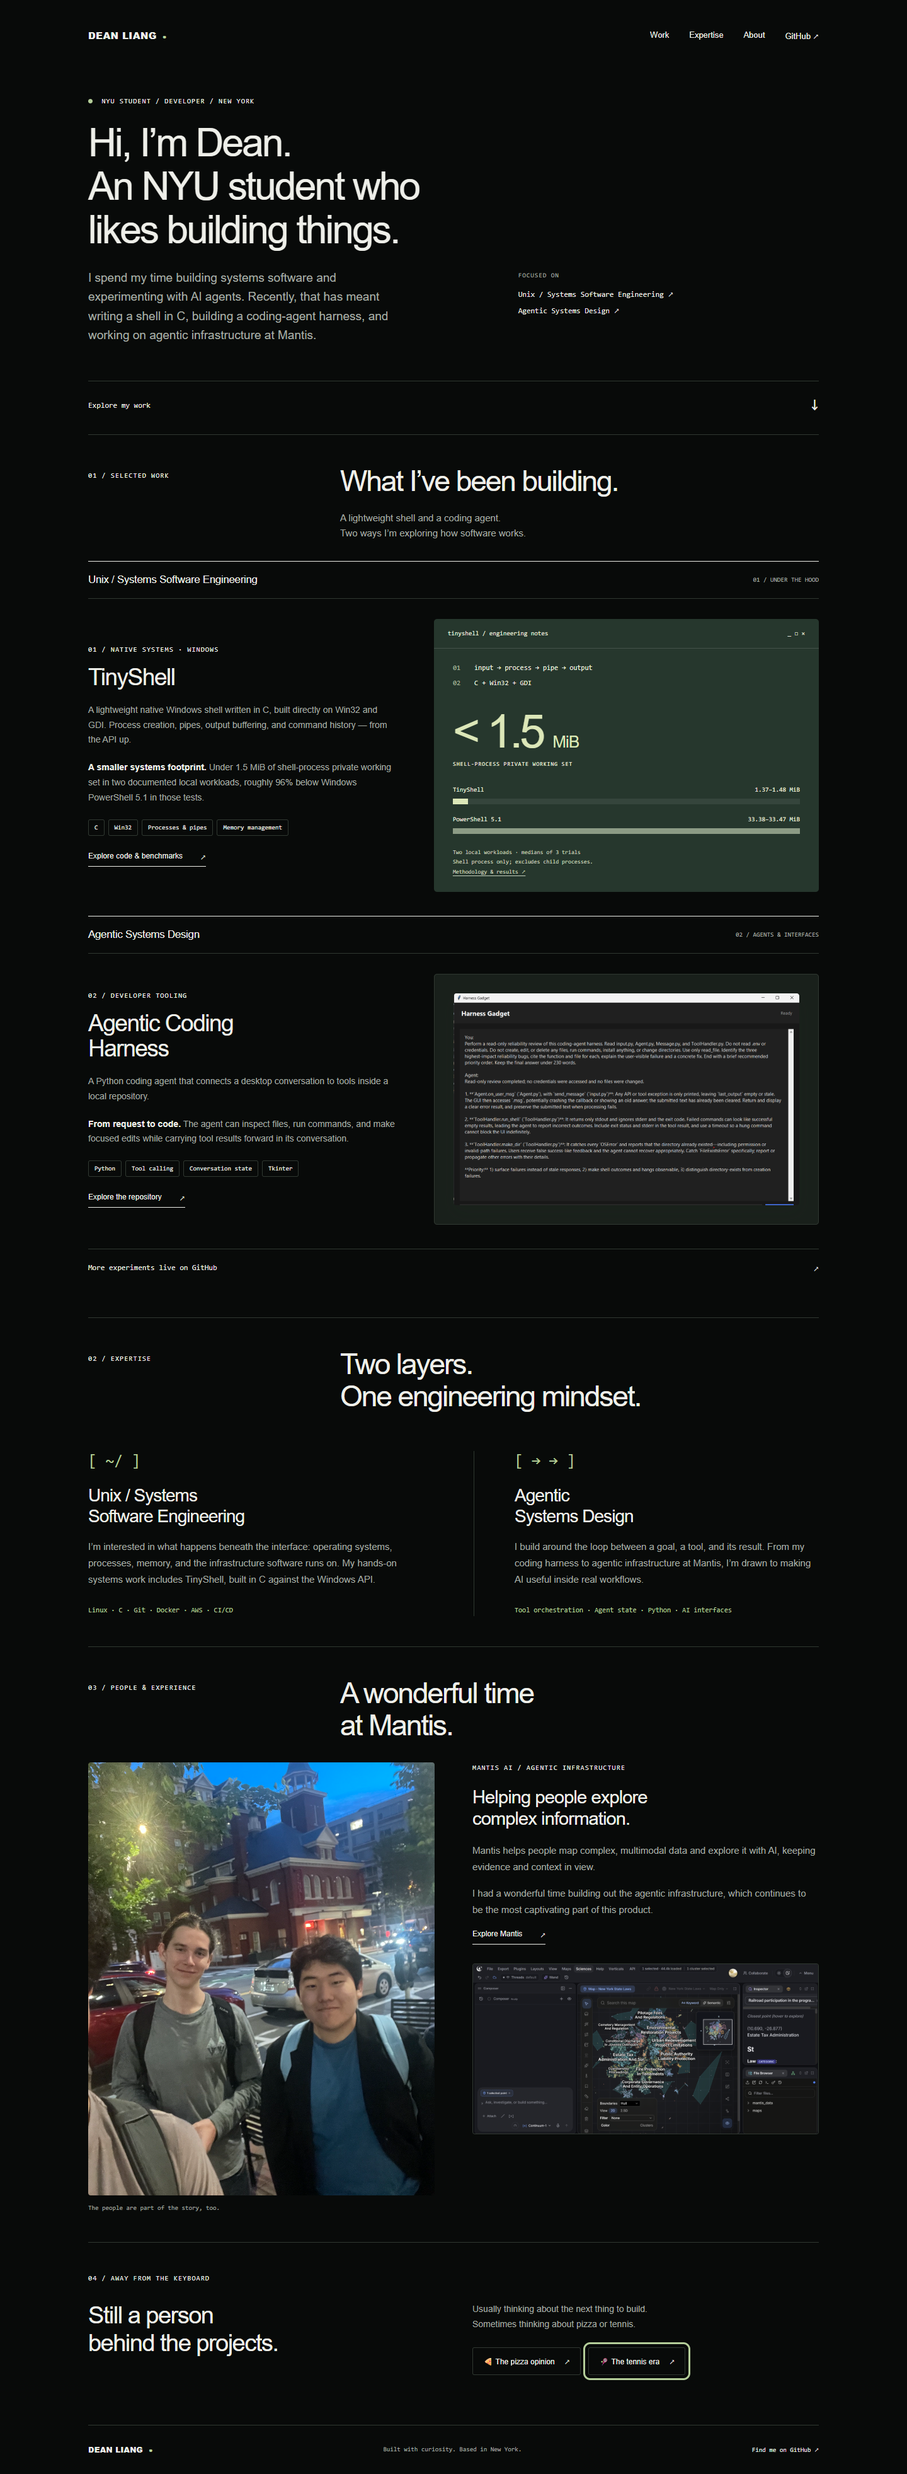
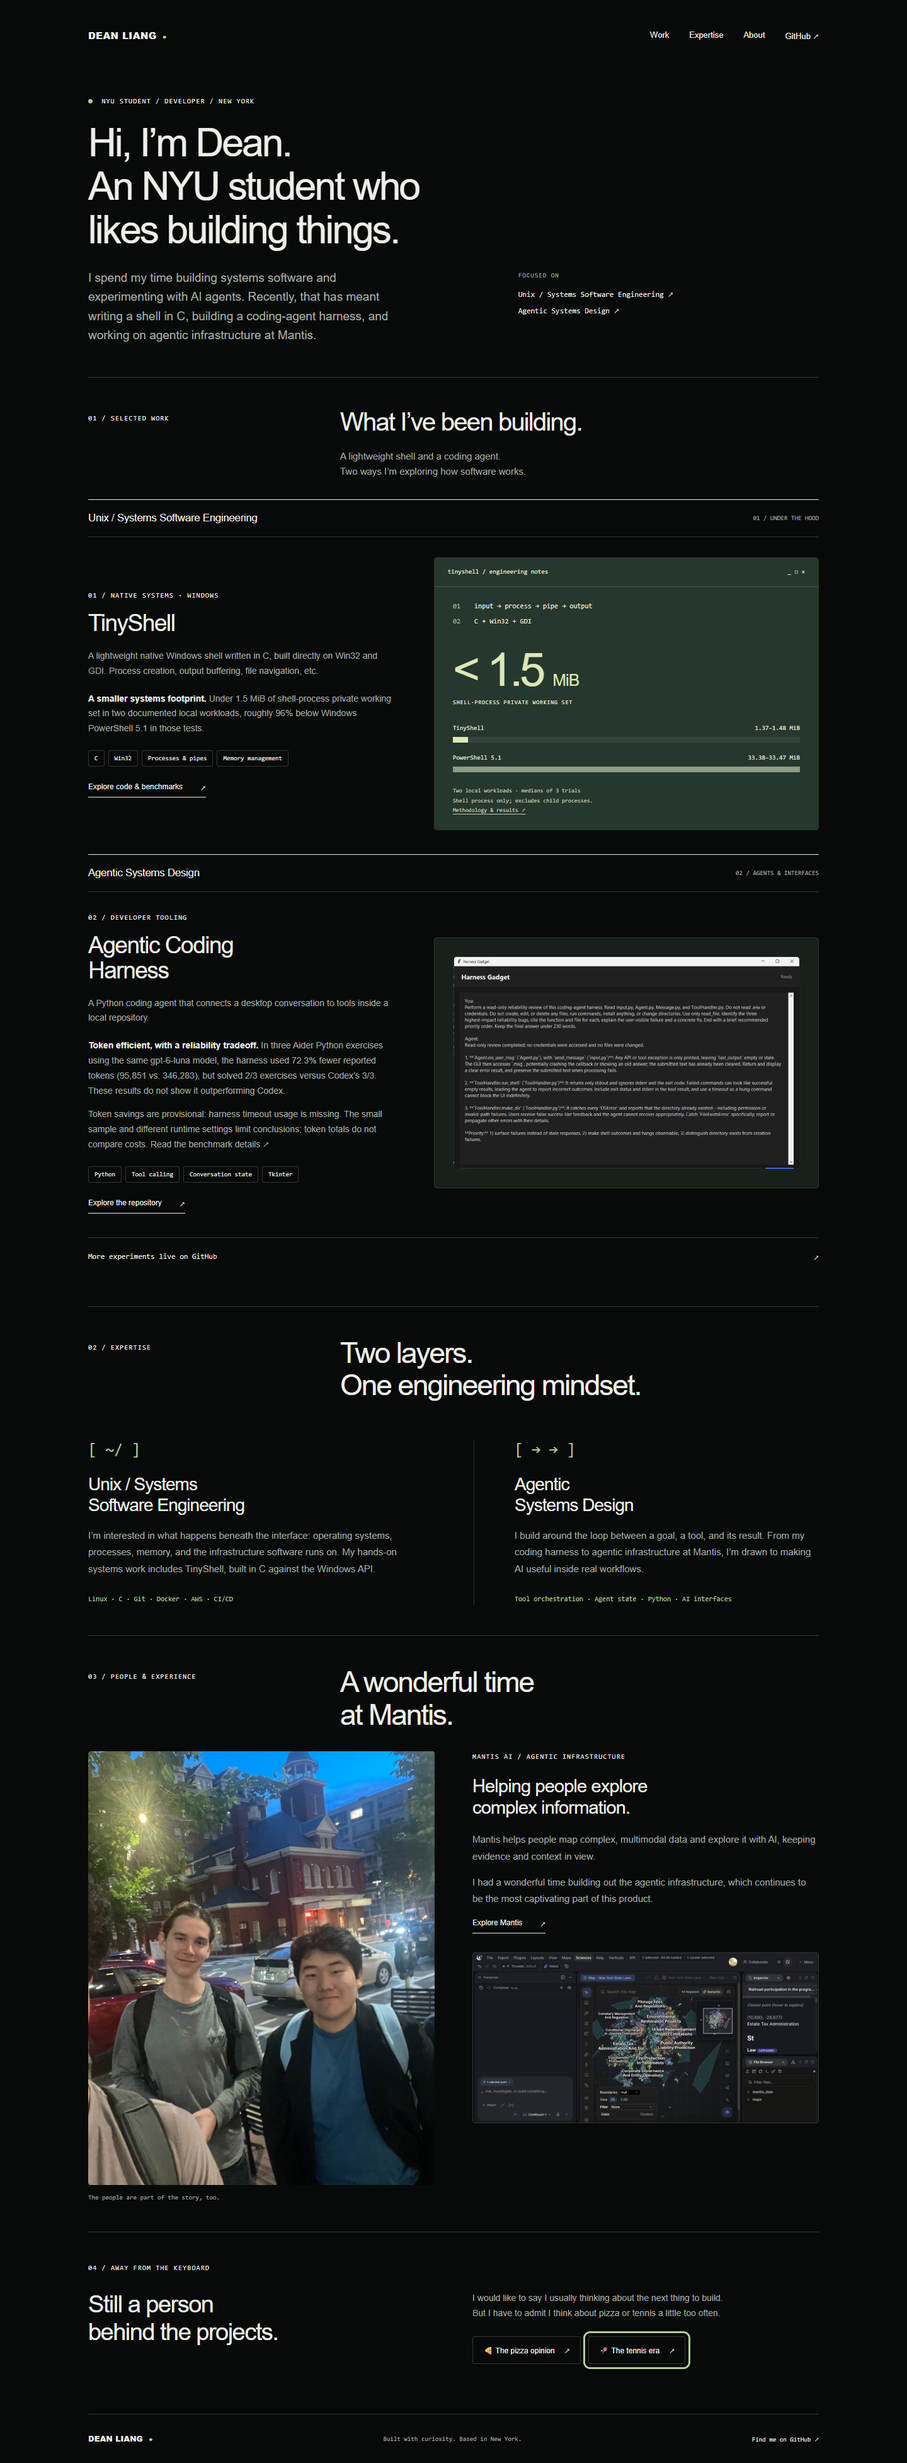
nerd

diff --git a/evidence/live-page.html b/evidence/live-page.html
@@ -1,4 +1,4 @@
-<!doctype html>
+<!doctype html>
 <html lang="en">
 <head>
 <meta charset="UTF-8"><meta name="viewport" content="width=device-width, initial-scale=1">
@@ -21,13 +21,13 @@
 <article class="project"><div class="project-copy"><p class="eyebrow">01 / NATIVE SYSTEMS · WINDOWS</p><h4>TinyShell</h4><p>A lightweight native Windows shell written in C, built directly on Win32 and GDI. Process creation, output buffering, file navigation, etc.</p><p class="impact"><strong>A smaller systems footprint.</strong> Under 1.5 MiB of shell-process private working set in two documented local workloads, roughly 96% below Windows PowerShell 5.1 in those tests.</p><ul class="tags"><li>C</li><li>Win32</li><li>Processes & pipes</li><li>Memory management</li></ul><a class="text-link" href="https://github.com/deanliang06/TinyShell" target="_blank" rel="noopener noreferrer">Explore code & benchmarks <span>↗</span></a></div><div class="systems-visual"><div class="terminal-heading"><span>tinyshell / engineering notes</span><span>_ □ ×</span></div><div class="terminal-body"><p><span>01</span> input → process → pipe → output</p><p><span>02</span> C + Win32 + GDI</p><div class="metric">&lt; 1.5 <small>MiB</small></div><p class="metric-caption">SHELL-PROCESS PRIVATE WORKING SET</p><div class="bar-label"><span>TinyShell</span><span>1.37–1.48 MiB</span></div><div class="bar"><i></i></div><div class="bar-label"><span>PowerShell 5.1</span><span>33.38–33.47 MiB</span></div><div class="bar comparison"><i></i></div><p class="benchmark-note">Two local workloads · medians of 3 trials<br>Shell process only; excludes child processes.<br><a href="https://github.com/deanliang06/TinyShell#small-footprint-measured" target="_blank" rel="noopener noreferrer">Methodology & results ↗</a></p></div></div></article>
 </div>
 <div id="agents" class="project-group"><div class="group-heading"><h3>Agentic Systems Design</h3><span>02 / AGENTS &amp; INTERFACES</span></div>
-<article class="project"><div class="project-copy"><p class="eyebrow">02 / DEVELOPER TOOLING</p><h4>Agentic Coding<br>Harness</h4><p>A Python coding agent that connects a desktop conversation to tools inside a local repository.</p><p class="impact"><strong>From request to code.</strong> The agent can inspect files, run commands, and make focused edits while carrying tool results forward in its conversation.</p><ul class="tags"><li>Python</li><li>Tool calling</li><li>Conversation state</li><li>Tkinter</li></ul><a class="text-link" href="https://github.com/deanliang06/AgenticCodingHarness" target="_blank" rel="noopener noreferrer">Explore the repository <span>↗</span></a></div><a class="project-image harness" href="https://github.com/deanliang06/AgenticCodingHarness" target="_blank" rel="noopener noreferrer" aria-label="View Agentic Coding Harness repository"><img src="DeanPageScreen/CodingHarness.png" alt="Coding harness desktop interface with an agent conversation and code review"></a></article>
+<article class="project"><div class="project-copy"><p class="eyebrow">02 / DEVELOPER TOOLING</p><h4>Agentic Coding<br>Harness</h4><p>A Python coding agent that connects a desktop conversation to tools inside a local repository.</p><p class="impact"><strong>Token efficient, with a performance tradeoff.</strong> The harness used fewer reported tokens but had a 33% lower solve rate than Codex in a small Aider benchmark. <a href="https://github.com/deanliang06/AgenticCodingHarness#aider-benchmark-harness-vs-codex" target="_blank" rel="noopener noreferrer">Read the benchmark details ↗</a></p><ul class="tags"><li>Python</li><li>Tool calling</li><li>Conversation state</li><li>Tkinter</li></ul><a class="text-link" href="https://github.com/deanliang06/AgenticCodingHarness" target="_blank" rel="noopener noreferrer">Explore the repository <span>↗</span></a></div><a class="project-image harness" href="https://github.com/deanliang06/AgenticCodingHarness" target="_blank" rel="noopener noreferrer" aria-label="View Agentic Coding Harness repository"><img src="DeanPageScreen/CodingHarness.png" alt="Coding harness desktop interface with an agent conversation and code review"></a></article>
 
 </div><a class="all-work" href="https://github.com/deanliang06?tab=repositories" target="_blank" rel="noopener noreferrer">More experiments live on GitHub <span>↗</span></a>
 </section>
 <section id="expertise" class="section" aria-labelledby="expertise-title"><div class="section-heading"><p class="eyebrow">02 / EXPERTISE</p><h2 id="expertise-title">Two layers.<br>One engineering mindset.</h2></div><div class="expertise-grid"><article><span class="expertise-icon" aria-hidden="true">[ ~/ ]</span><h3>Unix / Systems<br>Software Engineering</h3><p>I’m interested in what happens beneath the interface: operating systems, processes, memory, and the infrastructure software runs on. My hands-on systems work includes TinyShell, built in C against the Windows API.</p><p class="expertise-tools">Linux · C · Git · Docker · AWS · CI/CD</p></article><article><span class="expertise-icon" aria-hidden="true">[ → → ]</span><h3>Agentic<br>Systems Design</h3><p>I build around the loop between a goal, a tool, and its result. From my coding harness to agentic infrastructure at Mantis, I’m drawn to making AI useful inside real workflows.</p><p class="expertise-tools">Tool orchestration · Agent state · Python · AI interfaces</p></article></div></section>
 <section id="about" class="section" aria-labelledby="about-title"><div class="section-heading"><p class="eyebrow">03 / PEOPLE & EXPERIENCE</p><h2 id="about-title">A wonderful time<br>at Mantis.</h2></div><div class="mantis-layout"><figure><img loading="lazy" src="DeanPageScreen/MantisPeople.jpeg" alt="Dean spending time with the people at Mantis"><figcaption>The people are part of the story, too.</figcaption></figure><div class="mantis-copy"><p class="eyebrow">MANTIS AI / AGENTIC INFRASTRUCTURE</p><h3>Helping people explore<br>complex information.</h3><p>Mantis helps people map complex, multimodal data and explore it with AI, keeping evidence and context in view.</p><p>I had a wonderful time building out the agentic infrastructure, which continues to be the most captivating part of this product.</p><a class="text-link" href="https://home.withmantis.com/" target="_blank" rel="noopener noreferrer">Explore Mantis <span>↗</span></a><img class="mantis-product" loading="lazy" src="DeanPageScreen/Mantis.png" alt="Mantis semantic map with Composer and an evidence inspector"></div></div></section>
-<section class="personal section" aria-labelledby="personal-title"><p class="eyebrow">04 / AWAY FROM THE KEYBOARD</p><div class="personal-row"><h2 id="personal-title">Still a person<br>behind the projects.</h2><div><p>Usually thinking about the next thing to build.<br>Sometimes thinking about pizza or tennis.</p><div class="personal-buttons"><button type="button" data-shell="pizza">🍕 The pizza opinion <span>↗</span></button><button type="button" data-shell="tennis">🎾 The tennis era <span>↗</span></button></div></div></div></section>
+<section class="personal section" aria-labelledby="personal-title"><p class="eyebrow">04 / AWAY FROM THE KEYBOARD</p><div class="personal-row"><h2 id="personal-title">Still a person<br>behind the projects.</h2><div><p>Usually thinking about the next thing to build.<br>But I have to admit I think about pizza or tennis a little too often.</p><div class="personal-buttons"><button type="button" data-shell="pizza">🍕 The pizza opinion <span>↗</span></button><button type="button" data-shell="tennis">🎾 The tennis era <span>↗</span></button></div></div></div></section>
 <footer><a class="wordmark" href="#">DEAN LIANG<span class="dot">●</span></a><p>Built with curiosity. Based in New York.</p><a href="https://github.com/deanliang06" target="_blank" rel="noopener noreferrer">Find me on GitHub ↗</a></footer>
 </main>
 <dialog id="shell-dialog" aria-labelledby="shell-title"><div class="shell-bar"><h2 id="shell-title">dean: ~</h2><button id="shell-close" type="button" aria-label="Close popup">×</button></div><p class="shell-output"><span aria-hidden="true">$ </span><span id="shell-text"></span></p></dialog>

diff --git a/index.html b/index.html
@@ -20,13 +20,13 @@
 <article class="project"><div class="project-copy"><p class="eyebrow">01 / NATIVE SYSTEMS · WINDOWS</p><h4>TinyShell</h4><p>A lightweight native Windows shell written in C, built directly on Win32 and GDI. Process creation, output buffering, file navigation, etc.</p><p class="impact"><strong>A smaller systems footprint.</strong> Under 1.5 MiB of shell-process private working set in two documented local workloads, roughly 96% below Windows PowerShell 5.1 in those tests.</p><ul class="tags"><li>C</li><li>Win32</li><li>Processes & pipes</li><li>Memory management</li></ul><a class="text-link" href="https://github.com/deanliang06/TinyShell" target="_blank" rel="noopener noreferrer">Explore code & benchmarks <span>↗</span></a></div><div class="systems-visual"><div class="terminal-heading"><span>tinyshell / engineering notes</span><span>_ □ ×</span></div><div class="terminal-body"><p><span>01</span> input → process → pipe → output</p><p><span>02</span> C + Win32 + GDI</p><div class="metric">&lt; 1.5 <small>MiB</small></div><p class="metric-caption">SHELL-PROCESS PRIVATE WORKING SET</p><div class="bar-label"><span>TinyShell</span><span>1.37–1.48 MiB</span></div><div class="bar"><i></i></div><div class="bar-label"><span>PowerShell 5.1</span><span>33.38–33.47 MiB</span></div><div class="bar comparison"><i></i></div><p class="benchmark-note">Two local workloads · medians of 3 trials<br>Shell process only; excludes child processes.<br><a href="https://github.com/deanliang06/TinyShell#small-footprint-measured" target="_blank" rel="noopener noreferrer">Methodology & results ↗</a></p></div></div></article>
 </div>
 <div id="agents" class="project-group"><div class="group-heading"><h3>Agentic Systems Design</h3><span>02 / AGENTS &amp; INTERFACES</span></div>
-<article class="project"><div class="project-copy"><p class="eyebrow">02 / DEVELOPER TOOLING</p><h4>Agentic Coding<br>Harness</h4><p>A Python coding agent that connects a desktop conversation to tools inside a local repository.</p><p class="impact"><strong>From request to code.</strong> The agent can inspect files, run commands, and make focused edits while carrying tool results forward in its conversation.</p><ul class="tags"><li>Python</li><li>Tool calling</li><li>Conversation state</li><li>Tkinter</li></ul><a class="text-link" href="https://github.com/deanliang06/AgenticCodingHarness" target="_blank" rel="noopener noreferrer">Explore the repository <span>↗</span></a></div><a class="project-image harness" href="https://github.com/deanliang06/AgenticCodingHarness" target="_blank" rel="noopener noreferrer" aria-label="View Agentic Coding Harness repository"><img src="DeanPageScreen/CodingHarness.png" alt="Coding harness desktop interface with an agent conversation and code review"></a></article>
+<article class="project"><div class="project-copy"><p class="eyebrow">02 / DEVELOPER TOOLING</p><h4>Agentic Coding<br>Harness</h4><p>A Python coding agent that connects a desktop conversation to tools inside a local repository.</p><p class="impact"><strong>Token efficient, with a performance tradeoff.</strong> The harness used ~72% fewer reported tokens but had a 33% lower solve rate than Codex in a small Aider benchmark. <a href="https://github.com/deanliang06/AgenticCodingHarness#aider-benchmark-harness-vs-codex" target="_blank" rel="noopener noreferrer">Read the benchmark details ↗</a></p><ul class="tags"><li>Python</li><li>Tool calling</li><li>Conversation state</li><li>Tkinter</li></ul><a class="text-link" href="https://github.com/deanliang06/AgenticCodingHarness" target="_blank" rel="noopener noreferrer">Explore the repository <span>↗</span></a></div><a class="project-image harness" href="https://github.com/deanliang06/AgenticCodingHarness" target="_blank" rel="noopener noreferrer" aria-label="View Agentic Coding Harness repository"><img src="DeanPageScreen/CodingHarness.png" alt="Coding harness desktop interface with an agent conversation and code review"></a></article>
 
 </div><a class="all-work" href="https://github.com/deanliang06?tab=repositories" target="_blank" rel="noopener noreferrer">More experiments live on GitHub <span>↗</span></a>
 </section>
 <section id="expertise" class="section" aria-labelledby="expertise-title"><div class="section-heading"><p class="eyebrow">02 / EXPERTISE</p><h2 id="expertise-title">Two layers.<br>One engineering mindset.</h2></div><div class="expertise-grid"><article><span class="expertise-icon" aria-hidden="true">[ ~/ ]</span><h3>Unix / Systems<br>Software Engineering</h3><p>I’m interested in what happens beneath the interface: operating systems, processes, memory, and the infrastructure software runs on. My hands-on systems work includes TinyShell, built in C against the Windows API.</p><p class="expertise-tools">Linux · C · Git · Docker · AWS · CI/CD</p></article><article><span class="expertise-icon" aria-hidden="true">[ → → ]</span><h3>Agentic<br>Systems Design</h3><p>I build around the loop between a goal, a tool, and its result. From my coding harness to agentic infrastructure at Mantis, I’m drawn to making AI useful inside real workflows.</p><p class="expertise-tools">Tool orchestration · Agent state · Python · AI interfaces</p></article></div></section>
 <section id="about" class="section" aria-labelledby="about-title"><div class="section-heading"><p class="eyebrow">03 / PEOPLE & EXPERIENCE</p><h2 id="about-title">A wonderful time<br>at Mantis.</h2></div><div class="mantis-layout"><figure><img loading="lazy" src="DeanPageScreen/MantisPeople.jpeg" alt="Dean spending time with the people at Mantis"><figcaption>The people are part of the story, too.</figcaption></figure><div class="mantis-copy"><p class="eyebrow">MANTIS AI / AGENTIC INFRASTRUCTURE</p><h3>Helping people explore<br>complex information.</h3><p>Mantis helps people map complex, multimodal data and explore it with AI, keeping evidence and context in view.</p><p>I had a wonderful time building out the agentic infrastructure, which continues to be the most captivating part of this product.</p><a class="text-link" href="https://home.withmantis.com/" target="_blank" rel="noopener noreferrer">Explore Mantis <span>↗</span></a><img class="mantis-product" loading="lazy" src="DeanPageScreen/Mantis.png" alt="Mantis semantic map with Composer and an evidence inspector"></div></div></section>
-<section class="personal section" aria-labelledby="personal-title"><p class="eyebrow">04 / AWAY FROM THE KEYBOARD</p><div class="personal-row"><h2 id="personal-title">Still a person<br>behind the projects.</h2><div><p>I would like to say I usually thinking about the next thing to build.<br>But I have to admit I think about pizza or tennis too.</p><div class="personal-buttons"><button type="button" data-shell="pizza">🍕 The pizza opinion <span>↗</span></button><button type="button" data-shell="tennis">🎾 The tennis era <span>↗</span></button></div></div></div></section>
+<section class="personal section" aria-labelledby="personal-title"><p class="eyebrow">04 / AWAY FROM THE KEYBOARD</p><div class="personal-row"><h2 id="personal-title">Still a person<br>behind the projects.</h2><div><p>I would like to say I usually thinking about the next thing to build.<br>But I have to admit I think about pizza or tennis a little too often.</p><div class="personal-buttons"><button type="button" data-shell="pizza">🍕 The pizza opinion <span>↗</span></button><button type="button" data-shell="tennis">🎾 The tennis era <span>↗</span></button></div></div></div></section>
 <footer><a class="wordmark" href="#">DEAN LIANG<span class="dot">●</span></a><p>Built with curiosity. Based in New York.</p><a href="https://github.com/deanliang06" target="_blank" rel="noopener noreferrer">Find me on GitHub ↗</a></footer>
 </main>
 <dialog id="shell-dialog" aria-labelledby="shell-title"><div class="shell-bar"><h2 id="shell-title">dean: ~</h2><button id="shell-close" type="button" aria-label="Close popup">×</button></div><p class="shell-output"><span aria-hidden="true">$ </span><span id="shell-text"></span></p></dialog>

diff --git a/evidence/served.html b/evidence/served.html
@@ -1,4 +1,4 @@
-<!doctype html>
+<!doctype html>
 <html lang="en">
 <head>
 <meta charset="UTF-8"><meta name="viewport" content="width=device-width, initial-scale=1">
@@ -21,7 +21,7 @@
 <article class="project"><div class="project-copy"><p class="eyebrow">01 / NATIVE SYSTEMS · WINDOWS</p><h4>TinyShell</h4><p>A lightweight native Windows shell written in C, built directly on Win32 and GDI. Process creation, output buffering, file navigation, etc.</p><p class="impact"><strong>A smaller systems footprint.</strong> Under 1.5 MiB of shell-process private working set in two documented local workloads, roughly 96% below Windows PowerShell 5.1 in those tests.</p><ul class="tags"><li>C</li><li>Win32</li><li>Processes & pipes</li><li>Memory management</li></ul><a class="text-link" href="https://github.com/deanliang06/TinyShell" target="_blank" rel="noopener noreferrer">Explore code & benchmarks <span>↗</span></a></div><div class="systems-visual"><div class="terminal-heading"><span>tinyshell / engineering notes</span><span>_ □ ×</span></div><div class="terminal-body"><p><span>01</span> input → process → pipe → output</p><p><span>02</span> C + Win32 + GDI</p><div class="metric">&lt; 1.5 <small>MiB</small></div><p class="metric-caption">SHELL-PROCESS PRIVATE WORKING SET</p><div class="bar-label"><span>TinyShell</span><span>1.37–1.48 MiB</span></div><div class="bar"><i></i></div><div class="bar-label"><span>PowerShell 5.1</span><span>33.38–33.47 MiB</span></div><div class="bar comparison"><i></i></div><p class="benchmark-note">Two local workloads · medians of 3 trials<br>Shell process only; excludes child processes.<br><a href="https://github.com/deanliang06/TinyShell#small-footprint-measured" target="_blank" rel="noopener noreferrer">Methodology & results ↗</a></p></div></div></article>
 </div>
 <div id="agents" class="project-group"><div class="group-heading"><h3>Agentic Systems Design</h3><span>02 / AGENTS &amp; INTERFACES</span></div>
-<article class="project"><div class="project-copy"><p class="eyebrow">02 / DEVELOPER TOOLING</p><h4>Agentic Coding<br>Harness</h4><p>A Python coding agent that connects a desktop conversation to tools inside a local repository.</p><p class="impact"><strong>From request to code.</strong> The agent can inspect files, run commands, and make focused edits while carrying tool results forward in its conversation.</p><ul class="tags"><li>Python</li><li>Tool calling</li><li>Conversation state</li><li>Tkinter</li></ul><a class="text-link" href="https://github.com/deanliang06/AgenticCodingHarness" target="_blank" rel="noopener noreferrer">Explore the repository <span>↗</span></a></div><a class="project-image harness" href="https://github.com/deanliang06/AgenticCodingHarness" target="_blank" rel="noopener noreferrer" aria-label="View Agentic Coding Harness repository"><img src="DeanPageScreen/CodingHarness.png" alt="Coding harness desktop interface with an agent conversation and code review"></a></article>
+<article class="project"><div class="project-copy"><p class="eyebrow">02 / DEVELOPER TOOLING</p><h4>Agentic Coding<br>Harness</h4><p>A Python coding agent that connects a desktop conversation to tools inside a local repository.</p><p class="impact"><strong>Token efficient, with a performance tradeoff.</strong> The harness used fewer reported tokens but had a 33% lower solve rate than Codex in a small Aider benchmark. <a href="https://github.com/deanliang06/AgenticCodingHarness#aider-benchmark-harness-vs-codex" target="_blank" rel="noopener noreferrer">Read the benchmark details ↗</a></p><ul class="tags"><li>Python</li><li>Tool calling</li><li>Conversation state</li><li>Tkinter</li></ul><a class="text-link" href="https://github.com/deanliang06/AgenticCodingHarness" target="_blank" rel="noopener noreferrer">Explore the repository <span>↗</span></a></div><a class="project-image harness" href="https://github.com/deanliang06/AgenticCodingHarness" target="_blank" rel="noopener noreferrer" aria-label="View Agentic Coding Harness repository"><img src="DeanPageScreen/CodingHarness.png" alt="Coding harness desktop interface with an agent conversation and code review"></a></article>
 
 </div><a class="all-work" href="https://github.com/deanliang06?tab=repositories" target="_blank" rel="noopener noreferrer">More experiments live on GitHub <span>↗</span></a>
 </section>
